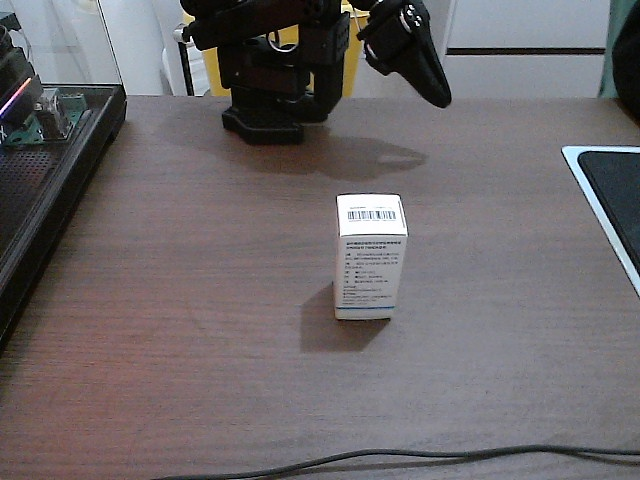
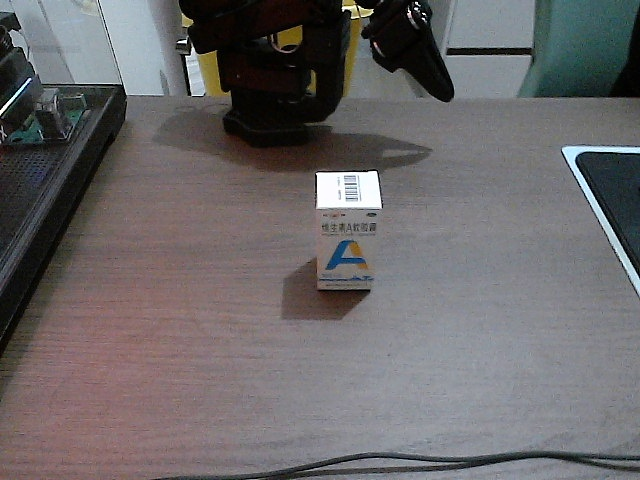
修复换个角度就无法定位纸盒顶点的bug

diff --git a/scripts/box_top_corners.py b/scripts/box_top_corners.py
@@ -1,6 +1,8 @@
 from pathlib import Path
 from ultralytics import YOLO
+from pixel_to_table import pixel_to_table
 import cv2
+import numpy as np
 
 
 def main():
@@ -14,6 +16,26 @@ def main():
     image = cv2.imread(str(image_path))
     if image is None:
         raise RuntimeError('图片读取失败')
+
+    pose_path = (
+        workspace / 'data' / 'calibration'
+        / 'table_plane_pose.npz'
+    )
+
+    with np.load(pose_path, allow_pickle=False) as pose:
+        camera_matrix = pose['camera_matrix']
+        dist_coeffs = pose['dist_coeffs']
+        rvec = pose['rvec']
+        tvec = pose['tvec'].reshape(3)
+        image_size = tuple(pose['image_size'].tolist())
+
+    rotation, _ = cv2.Rodrigues(rvec)
+    camera_origin_table = -rotation.T @ tvec
+
+    if (image.shape[1],image.shape[0]) != image_size:
+        raise RuntimeError('图片尺寸与标定尺寸不一致')
+
+    print(f'标定尺寸:{image_size}相机位置:{camera_origin_table}')
 
     model = YOLO(weights_path)
     result = model.predict(
@@ -72,9 +94,11 @@ def main():
     quadrilaterals = []
 
     for i, contour in enumerate(large_contours):
-        perimeter = cv2.arcLength(contour,True)
+        hull = cv2.convexHull(contour)
+
+        perimeter = cv2.arcLength(hull,True)
         approx = cv2.approxPolyDP(
-            contour, 0.02 * perimeter, True,
+            hull, 0.02 * perimeter, True,
         )
 
         print(f'候选{i}:顶点数={len(approx)}')
@@ -82,7 +106,67 @@ def main():
         if len(approx) == 4 and cv2.isContourConvex(approx):
             quadrilaterals.append(approx)
 
+    max_edges_error_mm = 3.0
+    valid_quadrilaterals = []
+
+    for index, quad in enumerate(quadrilaterals):
+        candidate_points = []
+
+        for u, v in quad.reshape(4,2) + (left,top):
+            point= pixel_to_table(
+                u, v, camera_matrix, dist_coeffs,
+                rotation, camera_origin_table,plant_z=-0.074,
+            )
+
+            if point is None:
+                break
+
+            candidate_points.append(point)
+
+        if len(candidate_points) != 4:
+            print(f'四边形{index}求交失败')
+            continue
+
+        lengths_mm = []
+
+        for i in range(4):
+            j = (i + 1) % 4
+            length = np.linalg.norm(
+                candidate_points[j] - candidate_points[i]
+            ) * 1000
+            lengths_mm.append(length)
+
+        score = max(abs(length - 40) for length in lengths_mm)
+        print(f'四边形{index}:最大边长偏差:{score:.2f}')
+
+        if score <= max_edges_error_mm:
+            valid_quadrilaterals.append(quad)
+
+    quadrilaterals = valid_quadrilaterals
+
     if len(quadrilaterals) != 1:
+
+        debug_view = roi.copy()
+        colors = ((0,0,255),(255,0,0))
+
+        cv2.drawContours(
+            debug_view, large_contours, -1, (0,255,0), 1
+        )
+
+        for index, qual in enumerate(quadrilaterals):
+            color = colors[index % 2]
+
+            cv2.drawContours(
+                debug_view, [qual], -1, color, 1,
+            )
+
+        cv2.imshow(
+            'candidate check',
+            cv2.resize(debug_view, None, fx=3, fy=3)
+        )
+        cv2.waitKey(0)
+        cv2.destroyAllWindows()
+
         raise RuntimeError(f'四边形候选数量:{len(quadrilaterals)}')
 
     corners_roi = quadrilaterals[0].astype('float32')
@@ -103,8 +187,36 @@ def main():
 
     corners_image = refined_roi + (left, top)
 
+    points_table = []
+
     for i, (u,v) in enumerate(corners_image):
-        print(f'角点:{i}:像素:({u},{v})')
+        point = pixel_to_table(
+        u, v, camera_matrix, dist_coeffs,
+        rotation, camera_origin_table,plant_z=-0.074,
+        )
+
+        if point is None:
+            raise RuntimeError(f'角点{i}求交失败')
+
+        points_table.append(point)
+
+    points_table = np.asarray(points_table)
+    center_table = points_table.mean(axis=0)
+    print(f'顶面中心:{center_table}')
+
+    for i in range(4):
+        j = (i + 1) % 4
+
+        length_mm = np.linalg.norm(
+            points_table[j] - points_table[i]
+        ) * 1000
+
+        error_mm = length_mm - 40.0
+
+        print(
+            f'边{i}-{j}:{length_mm:.2f}mm,'
+            f'偏差:{error_mm:+.2f}mm'
+        )
 
     contour_view = roi.copy()
     cv2.drawContours(
